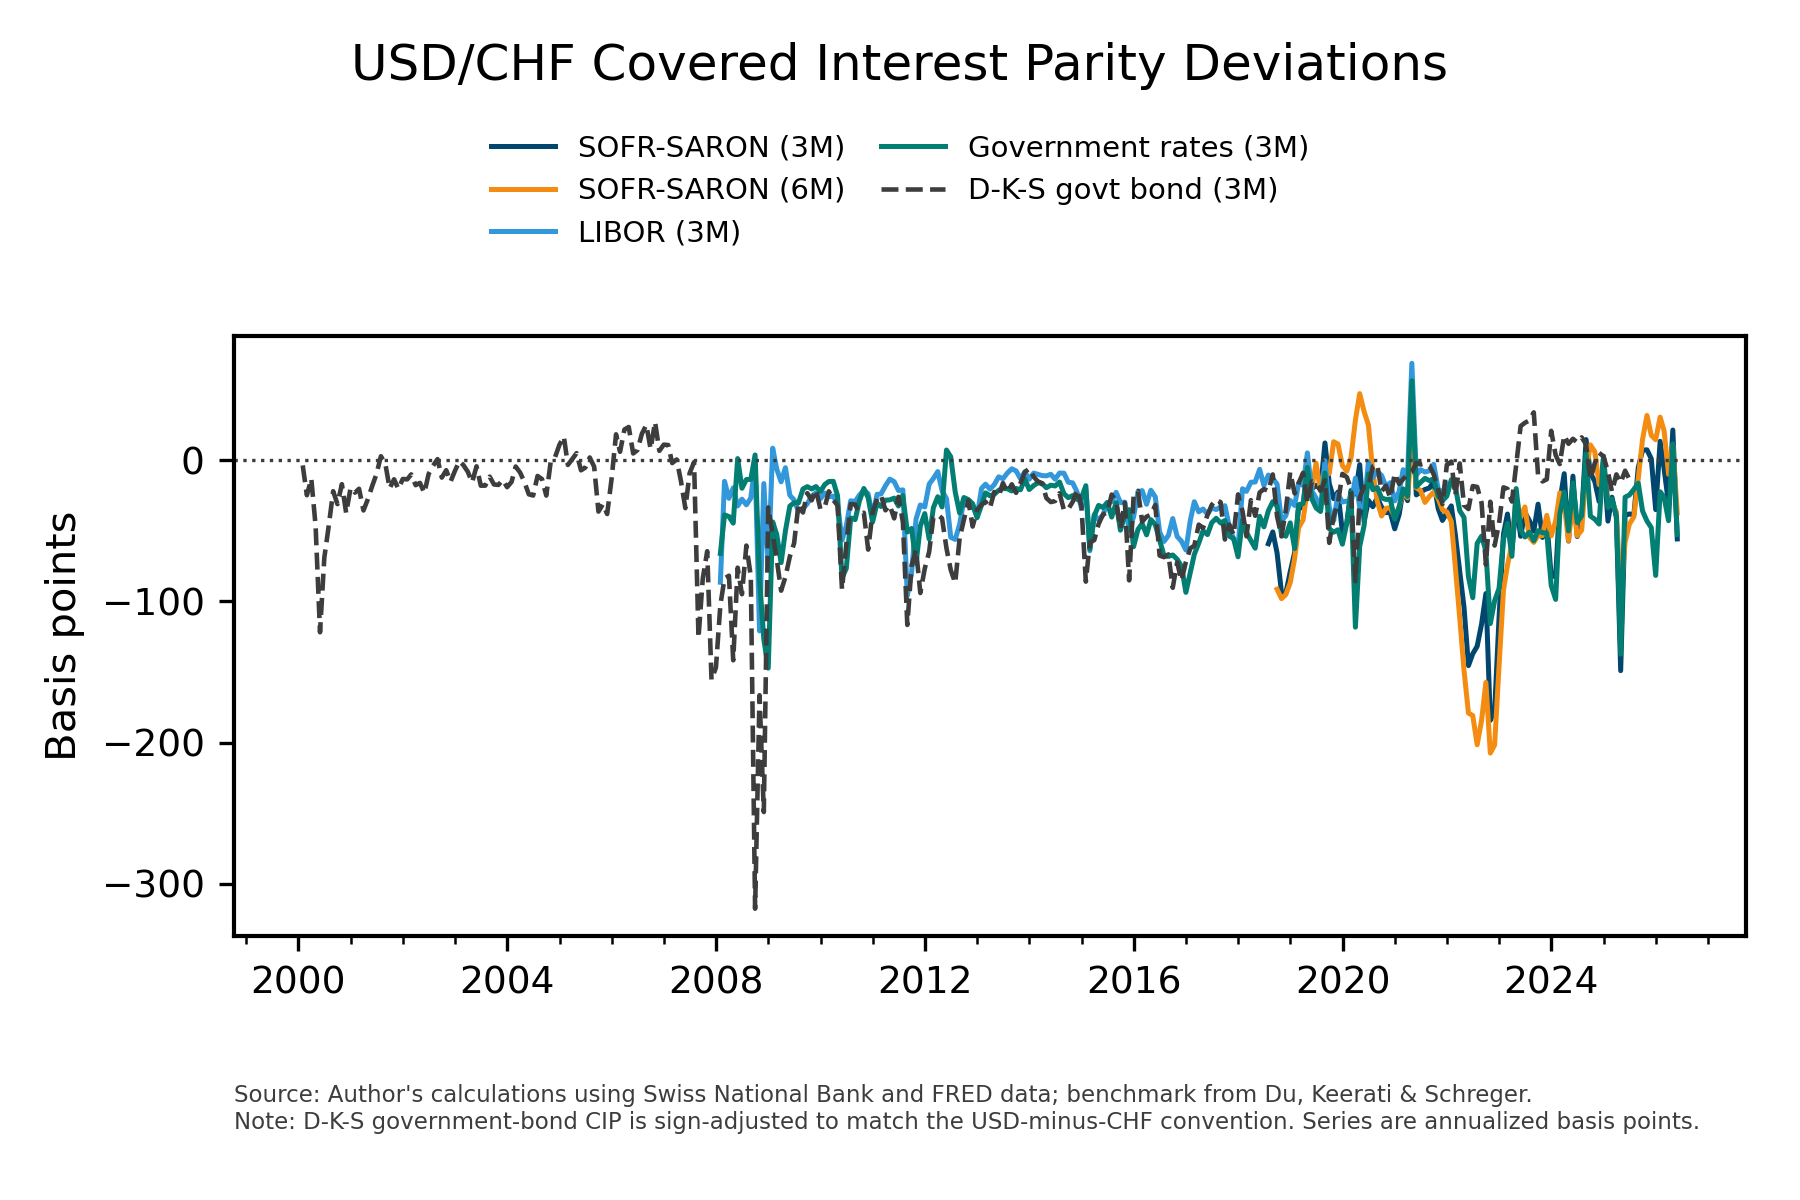
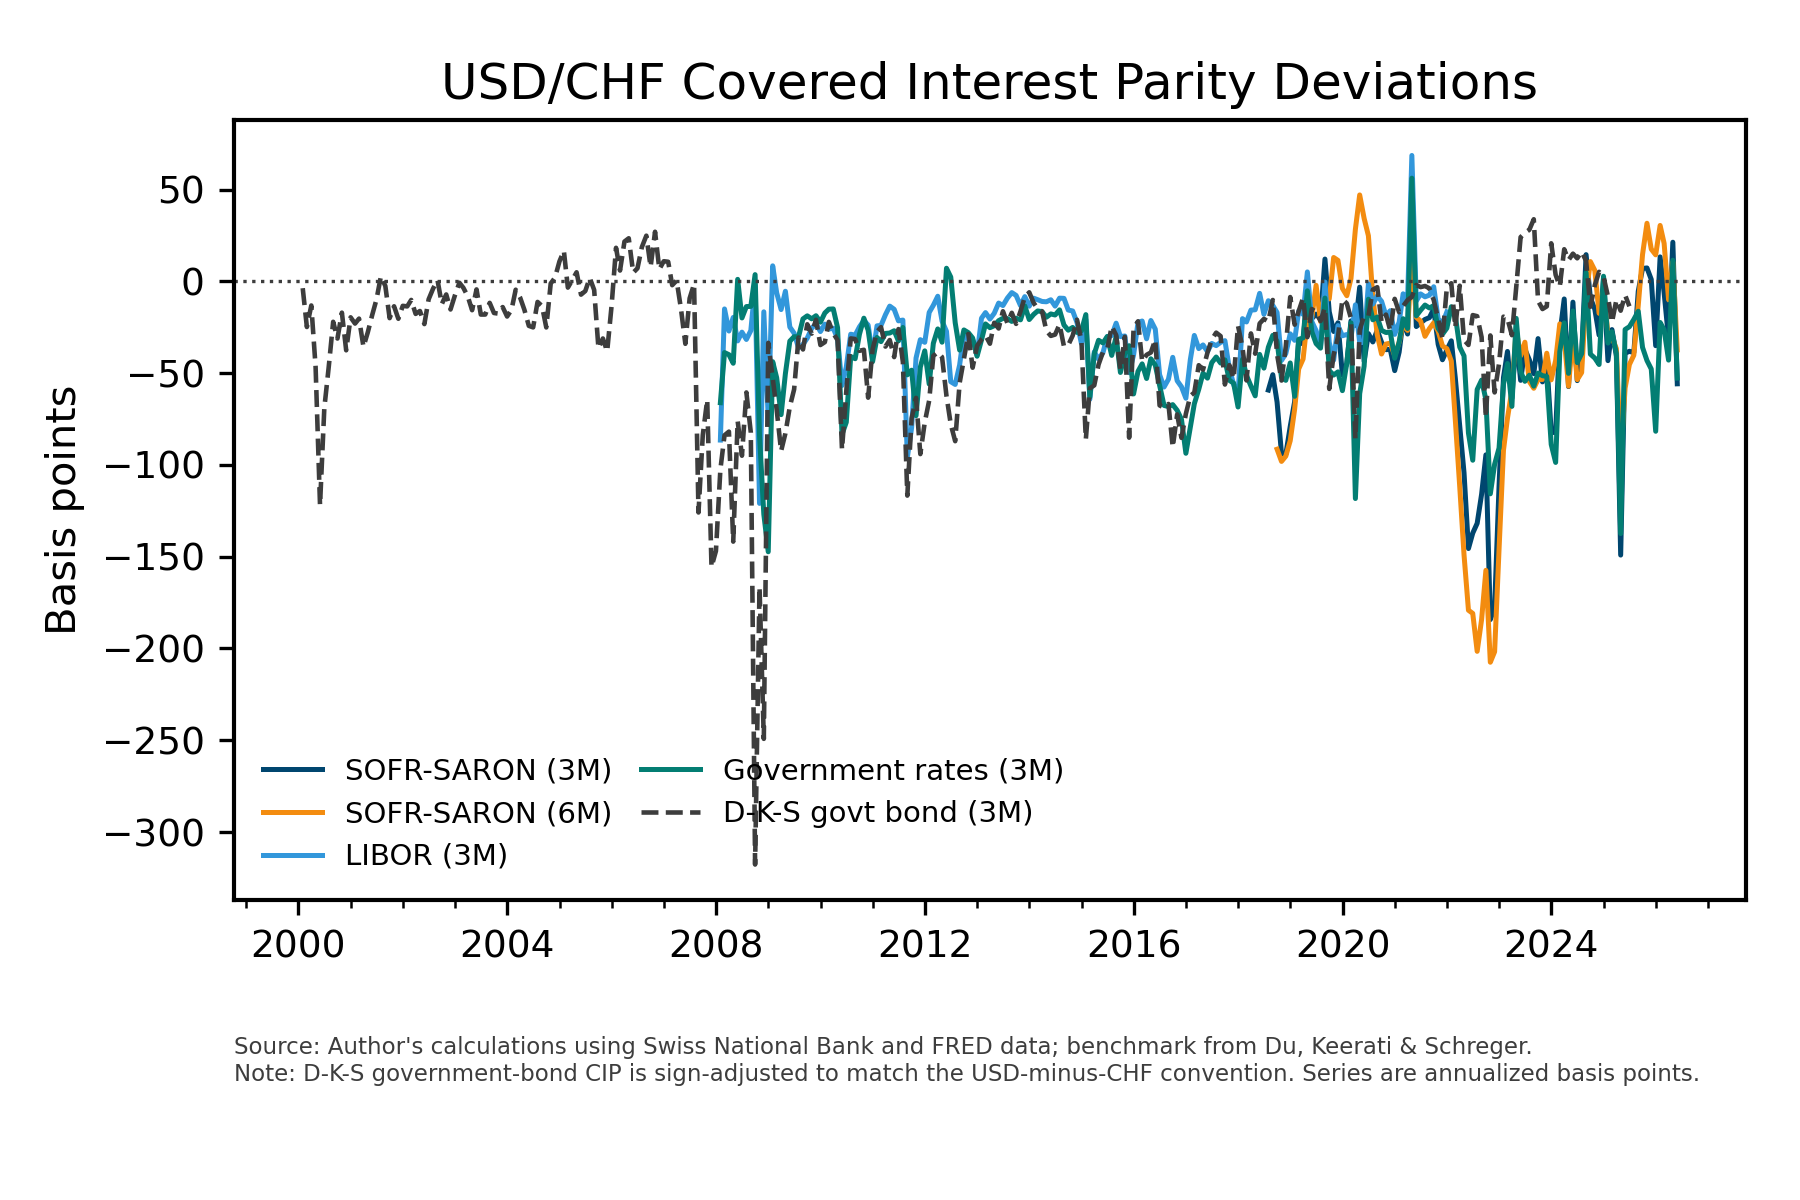
Adjust CIP chart legend layout

diff --git a/usd_chf_cip.py b/usd_chf_cip.py
@@ -456,16 +456,17 @@ def plot_outputs(panel: pd.DataFrame) -> None:
     ax.set_ylabel("Basis points")
     ax.set_xlabel(None)
     handles, labels = ax.get_legend_handles_labels()
-    fig.suptitle("USD/CHF Covered Interest Parity Deviations", y=0.965, fontsize=12)
-    fig.legend(
+    ax.set_title("USD/CHF Covered Interest Parity Deviations", fontsize=12, pad=5)
+    ax.legend(
         handles,
         labels,
-        loc="upper center",
-        bbox_to_anchor=(0.5, 0.91),
+        loc="lower left",
         ncol=2,
         frameon=False,
-        handlelength=2.2,
-        columnspacing=1.2,
+        fontsize=7,
+        handlelength=2.0,
+        columnspacing=1.0,
+        borderaxespad=0.6,
     )
     ax.xaxis.set_major_locator(mdates.YearLocator(4))
     ax.xaxis.set_minor_locator(mdates.YearLocator())
@@ -478,8 +479,8 @@ def plot_outputs(panel: pd.DataFrame) -> None:
         "Note: D-K-S government-bond CIP is sign-adjusted to match the USD-minus-CHF convention. "
         "Series are annualized basis points."
     )
-    fig.text(0.13, 0.055, note, ha="left", va="bottom", fontsize=5.5, color=palette[8], wrap=True)
-    plt.subplots_adjust(left=0.13, right=0.97, top=0.72, bottom=0.22)
+    fig.text(0.13, 0.095, note, ha="left", va="bottom", fontsize=5.5, color=palette[8], wrap=True)
+    plt.subplots_adjust(left=0.13, right=0.97, top=0.90, bottom=0.25)
 
     os.makedirs(os.path.dirname(CONFIG["CHART_OUTPUT_PATH"]), exist_ok=True)
     plt.savefig(CONFIG["CHART_OUTPUT_PATH"])